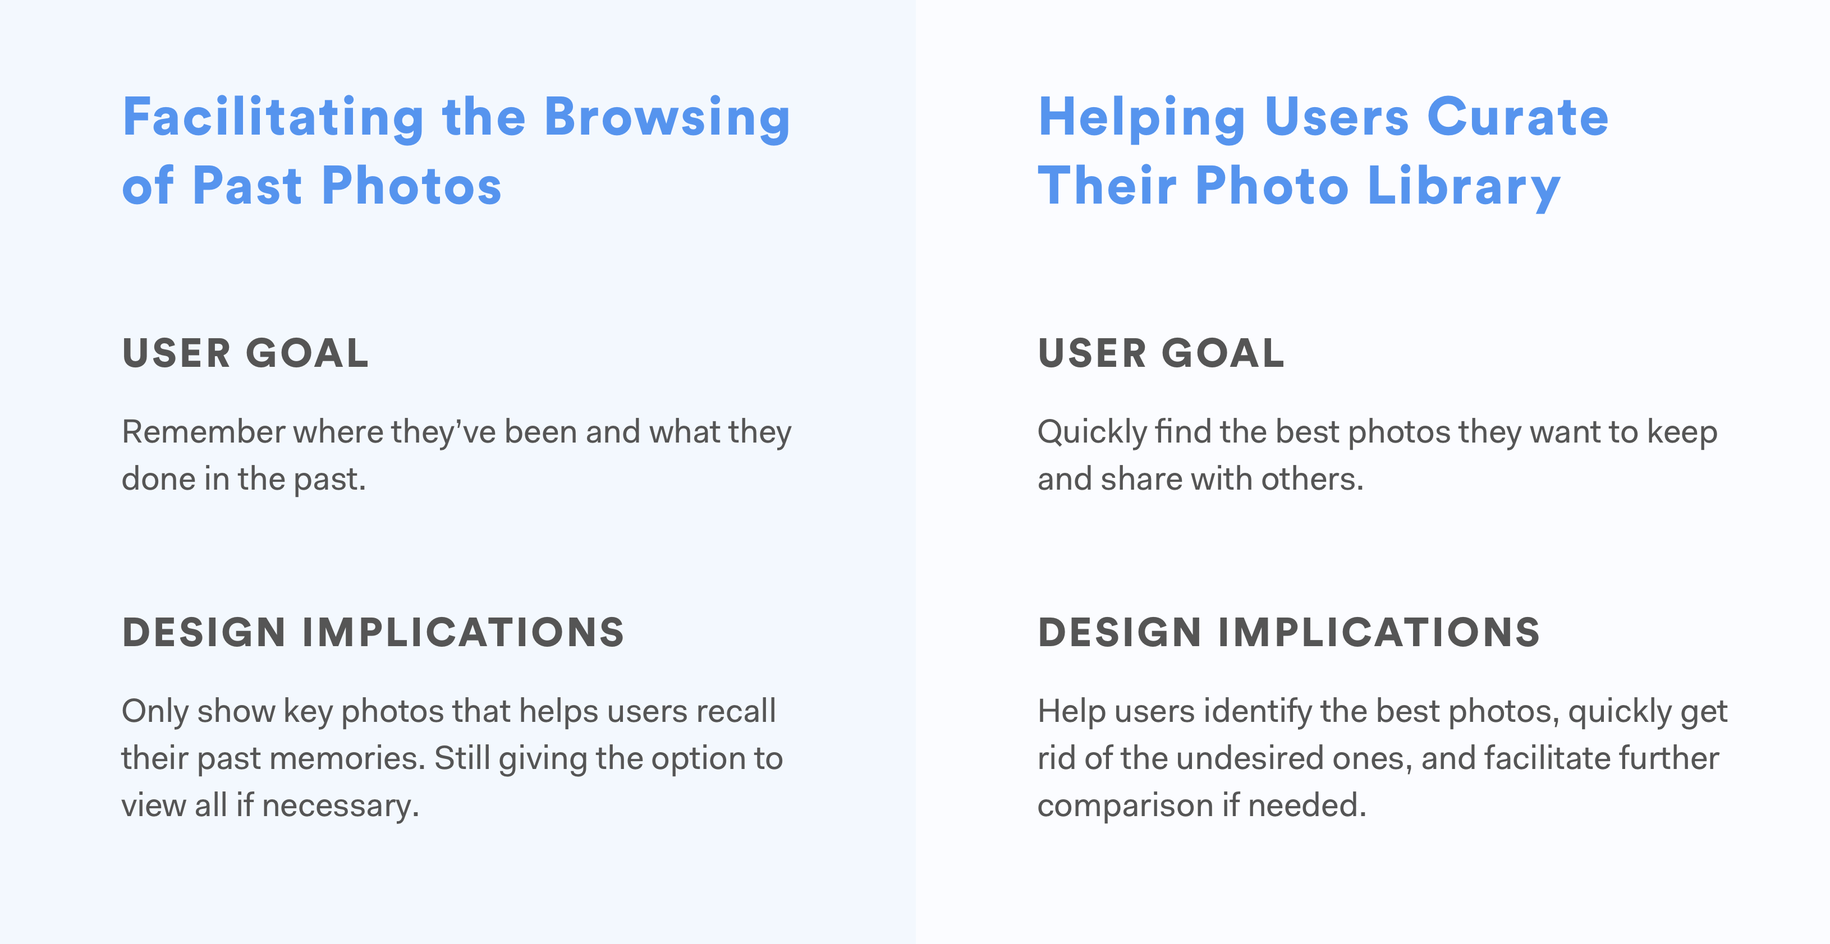
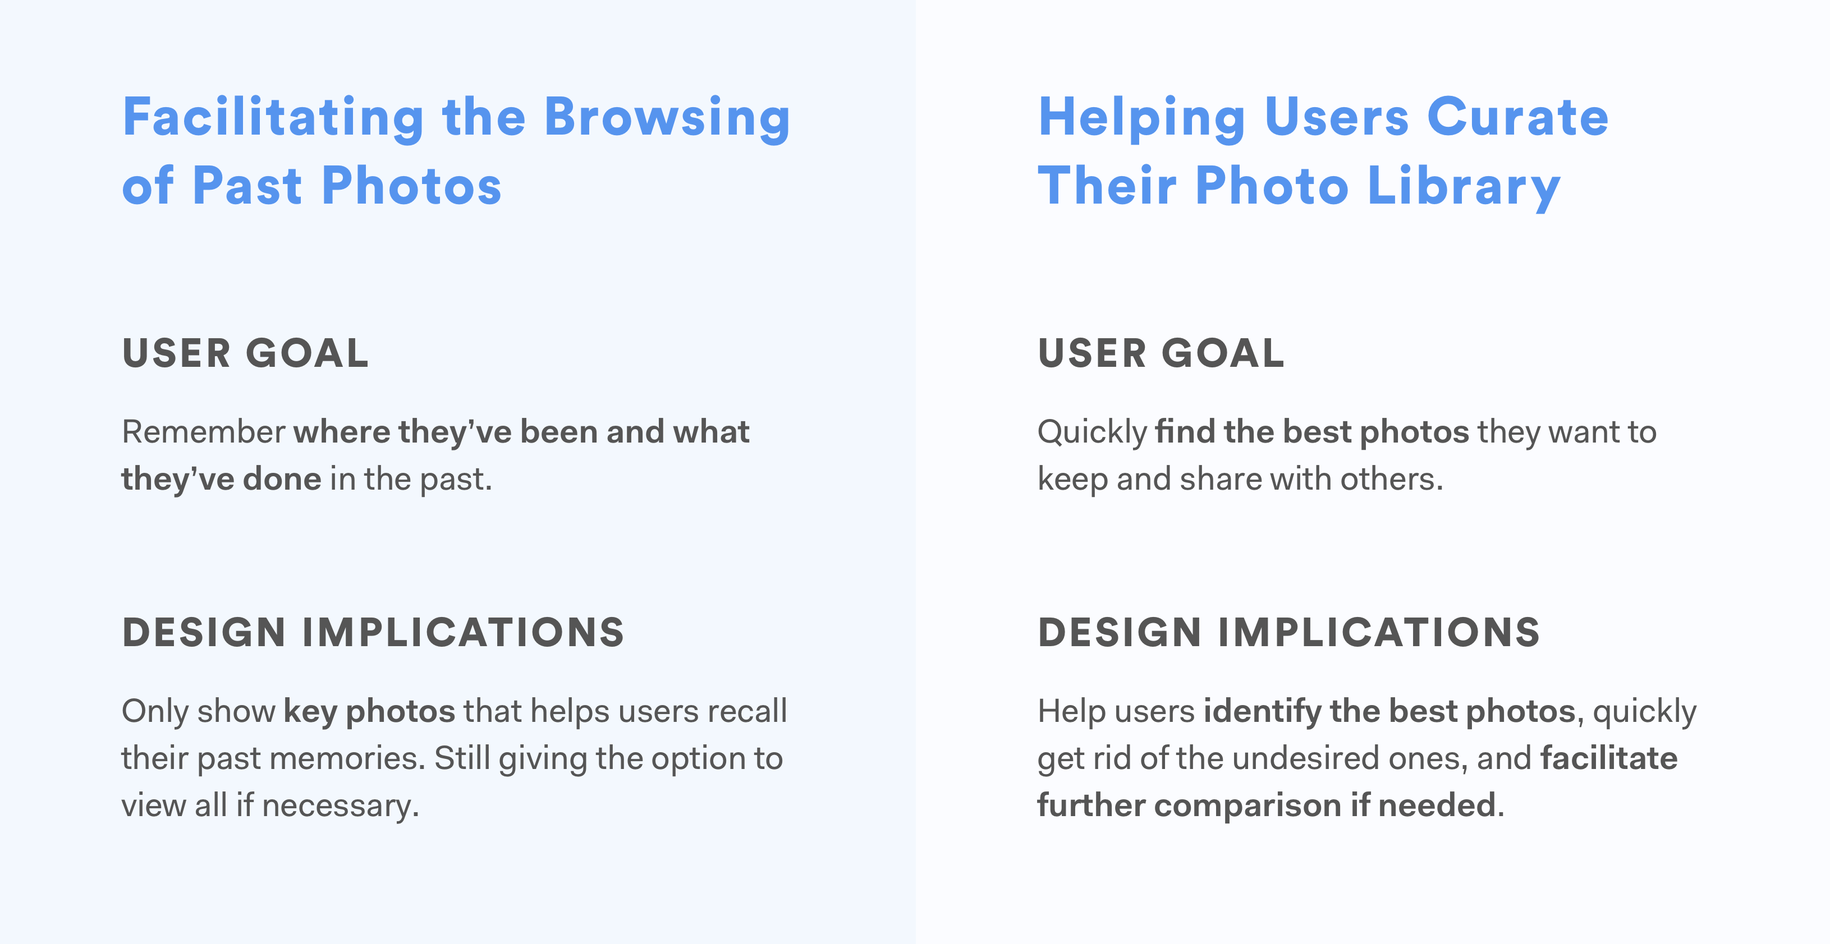
Changed typos and added photos for Google Photos

diff --git a/html/works/photos.html b/html/works/photos.html
@@ -298,7 +298,7 @@
 
                   <p><span class="highlight highlight-photos">Why is this?</span> <br><br>
 
-                    As I looked more into their answers, I realized that <span class="highlight highlight-photos">the reddit users who responded tend to be more experienced photographers!</span> Unlike those who are just casually taking snapshots of life, these semi-professional or professional photographers either take fewer, high-quality shots, or spend a long time manually refining their photographs using tools like Lightroom. <span class="highlight highlight-photos">In other words, they either don't have lots of similar photos in their library, or do have a lot, but consider it necessary to go over them one by one to make sure they select the best photos and post-process them.</span> <br><br>
+                    As I looked more into their answers, I realized that <span class="highlight highlight-photos"><strong>the reddit users who responded tend to be more experienced photographers!</strong></span> Unlike those who are just casually taking snapshots of life, these semi-professional or professional photographers either take fewer, high-quality shots, or spend a long time manually refining their photographs using tools like Lightroom. <span class="highlight highlight-photos">In other words, they either don't have lots of similar photos in their library, or do have a lot, but consider it necessary to go over them one by one to make sure they select the best photos and post-process them.</span> <br><br>
 
                     Therefore, it seems like more professional photographers fall out of my target audience. What about more casual photographers, who just use cameras to capture snapshots of life?
                   </p>
@@ -349,7 +349,7 @@
             <section class="group">
 
               <div class="subgroup">
-                <p>None of the existing products facilitates comparison between photos. Only Gemini helps users manage similar photos, but users will need to go into the app to manually clean up their photo library. Can we make the clean up process more care-free, and help users better compare similar photos they took?</p>
+                <p><span class="highlight highlight-photos"><strong>None of the existing products facilitates comparison between photos, which is actually the biggest problem I identified in my research.</strong></span> Only Gemini helps users manage similar photos, but users will need to go into the app to manually clean up their photo library. Can we make the clean up process more care-free, and help users better compare similar photos they took?</p>
               </div>
 
               <div id="design-goals" class="subgroup">
@@ -389,6 +389,8 @@
 
                 Google Photos enables users to search for particular photos using natural language (e.g. Paris Summer, Dogs, Sunset, etc.). It also automatically creates albums for photos taken around the same time and place, and recommends them to users. Should I focus on these functions instead to better help users browse through their memories?<br><br>
 
+                <img class="img-responsive full-img" src="../../assets/photos-where-redesign.png" alt="Where redesign"> <br><br>
+
                 <span class="highlight highlight-photos">I referred back to what I learned from the user interviews.</span> Most users I talked with spent most of their time browsing through photos in their "Photos" tab. Some do use "search", but only for searching specific photos. As for the automatically generated albums, users mentioned that those albums don't contain all the photos they took. <span class="highlight highlight-photos">Though the intention of those albums was to automatically include only the best photos for users, users still wanted to know that all the photos they took are there, and would prefer looking into the camera roll in the "Photos" tab.</span><br><br>
 
                 Therefore, I decided that the "Photos" tab was where the redesign should happen.</p>
@@ -415,7 +417,7 @@
 
                 I then started asking myself: <span class="highlight highlight-photos">do users really need to see all those similar photos in the photo roll at all?</span><br><br>
 
-                It seemed to be the convention to have all the photos displayed in the camera roll, at least in the expanded view; but as I referred back to the user needs and my design goal, I realized that this convention could be broken. <span class="highlight highlight-photos">The primary function of the camera roll is for users to quickly browse through and find/discover what they're looking for. There is no point of seeing several visually similar thumbnails there; users only care about how they differ when they can see the detailed image.</span><br><br>
+                It seemed to be the convention to have all the photos displayed in the camera roll, at least in the expanded view; but as I referred back to the user needs and my design goal, I realized that this convention could be broken. <span class="highlight highlight-photos"><strong>The primary function of the camera roll is for users to quickly browse through and find/discover what they're looking for. There is no point of seeing several visually similar thumbnails there; users only care about how they differ when they can see the detailed image.</strong></span><br><br>
 
                 Therefore, I developed the third alternative.
                  </p>
@@ -435,7 +437,7 @@
 
                  <img class="img-responsive full-img" src="../../assets/photos-important-moment-alternatives.png" alt="alternatives"> <br><br>
 
-                 <p><span class="highlight highlight-photos">I decided that using size to denote the number of photos in a group would be a better choice because size encodes more useful information in a way that people intuitively understands: the larger the size, the bigger the number.</span><br><br>
+                 <p><span class="highlight highlight-photos">I decided that using size to denote the number of photos in a group would be a better choice because <strong>size encodes more useful information in a way that people intuitively understands: the larger the size, the bigger the number.</strong></span><br><br>
 
                  However, this means that we'll need to slightly change the algorithm of how the photos will be displayed in the "Photos" tab. <span class="highlight highlight-photos">If I had access to developers, I would definitely consult with them about this change, and balance the value the change brings with the amount of effort we need to put into that change.</span><br><br>
 
@@ -460,16 +462,16 @@
 
                 <p>After redesigning the grid layout in the "Photos" tab, what would users see after they click into a user group then? <span class="highlight highlight-photos">Bringing in the concept of "photo groups" means that I need to think more about 1) how users would navigate between photos in those groups, and 2) how the existing interactions with those photos might be affected.</span><br><br>
 
-                For the first question, I referred back to user needs and put myself in the shoes of a user. <span class="highlight highlight-photos">Because of my limited time, I made an educated assumption that most of the times, users would only want to see the best photos as they swipe through their photo library.</span> Only for photos that they're really interested in will they want to see all the other similar ones they've taken.<br><br>
+                For the first question, I referred back to user needs and put myself in the shoes of a user. <span class="highlight highlight-photos">Because of my limited time, I made an educated assumption that most of the times, users would only need to see one photo within each photo group as they swipe through their photo library.</span> Only for photos that they're really interested in will they want to see all the other similar ones they've taken.<br><br>
 
                 With this assumption in mind, I started thinking about alternatives for the interaction.
                 </p>
 
                 <img class="img-responsive full-img" src="../../assets/photos-wireframes-swipe-alternatives.png" alt="swipe alternatives"> <br><br>
 
-                <p>At first glance, alternative 2 seems to be the worst choice for comparison between similar photos, because it's extremely hard for users to keep in mind the photos they want to compare when the positions of thumbnails are constantly changing. <span class="highlight highlight-photos">However, since I later decided to create a separate mode for comparison, the sole purpose for users to navigate between photos in this page becomes to quickly browse through them. For this purpose, alternative 2 together with alternative 1 becomes the best choice.</span> If I had time, I would bring it to users or other designers to get their input and validate this design decision.<br><br>
+                <p>At first glance, alternative 2 seems to be the worst choice for comparison between similar photos, because it's extremely hard for users to keep in mind the photos they want to compare when the positions of thumbnails are constantly changing. <span class="highlight highlight-photos">However, since I later decided to create <strong>a separate mode for comparison</strong>, the sole purpose for users to navigate between photos in this page becomes to quickly browse through them. For this purpose, <strong>alternative 2 together with alternative 1 becomes the best choice.</strong></span> If I had time, I would bring it to users or other designers to get their input and validate this design decision.<br><br>
 
-                As for how the redesign is going to change the current users' current interactions with photos, <span class="highlight highlight-photos">I explored all the ways users are able to interact with a photo currently, and thought about whether those interactions are more logical to be applied to a group of similar photos, or a single photo.</span>
+                As for how the redesign is going to change the users' current interactions with photos, <span class="highlight highlight-photos">I explored all the ways users are able to interact with a photo right now, and thought about whether those interactions are more logical to be applied to a group of similar photos, or a single photo.</span>
                  </p>
 
                 <img class="img-responsive full-img" src="../../assets/photos-detail-existing-features.png" alt="existing features"> <br><br><br><br><br>
@@ -483,10 +485,13 @@
                 <p>Another major task users usually need to carry out when they take lots of similar photos is to compare between different shots, delete the bad ones, or select the best ones to view, edit, or share. But this curation process is painful and time-consuming because <span class="highlight highlight-photos">1) users have to manually go through every photo to pick the good and delete the bad, and 2) it is extremely hard to compare between similar photos and spot the differences. How can I make the curation process easier?</span></p>
 
                 <h5 class="photos-h5">Using Machine Learning to Recommend the Best Photos</h5>
-                <p><span class="highlight highlight-photos">One way to relieve users from the burden of selecting the best photos is to suggest the best ones for quick actions.</span> Using Machine Learning, it is possible to identify photos with the best lightings, compositions, and even those in which everyone's smiling. Google Clip has been using similar algorithms to suggest best moments in a video. It would be possible to further apply similar technologies in Google Photos to automatically suggest the best photo within a photo group, and enable users to quickly share it or delete the others.</p>
+                <p><span class="highlight highlight-photos">One way to relieve users from the burden of selecting the best photos is to suggest the best ones for quick actions.</span> Using Machine Learning, it is possible to identify photos with the best lightings, compositions, and even those in which everyone's smiling. Google Clip has been using similar algorithms to suggest best moments in a video. It would be possible to further apply similar technologies in Google Photos to automatically suggest the best photo within a photo group, and enable users to quickly share it or delete the others.<br><br>
+
+                However, the notion of "a best photo" is highly subjective. <span class="highlight highlight-photos">As a designer, I also want to <strong>give my users control</strong> even when my design leverages the most advanced algorithms to simplify the process.<span> That's why I decided to provide another function to help them compare between similar photos more quickly.
+                 </p>
 
                 <h5 class="photos-h5">Facilitating Comparison</h5>
-                <p>Almost all users I interviewed complained that it is hard to scroll through similar photos and compare between them. Here's how they currently compare between similar images:</p>
+                <p>Almost all users I interviewed complained that <span class="highlight highlight-photos">it is so hard to scroll through similar photos and compare between them.</span> Here's how they do the comparison now:</p>
 
                 <p class="p-center-wrapper"><video autoplay muted loop class="video-features" style="max-width:200px">
                   <source src="../../assets/photos-compare-current.mp4"/>
@@ -499,7 +504,9 @@
 
                 <img class="img-responsive full-img" src="../../assets/photos-change-blindness.png" alt="change blindness"> <br><br><br>
 
-                <p><span class="highlight highlight-photos">If side-by-side comparison is already difficult, then think about how hard it is to scroll and see slightly different images one by one, and try to compare the current one with another one you saw 10 seconds ago.</span><br><br>
+                <p><strong>It's hard, right?</strong> <br><br>
+
+                <span class="highlight highlight-photos">If side-by-side comparison is already difficult, then think about how hard it is to scroll and see slightly different images one by one, and try to compare the current one with another one you saw 10 seconds ago.</span><br><br>
 
                 The quickest and the most effortless way to compare the differences between 2 images is to <span class="highlight highlight-photos">show them sequentially, with no interruptions in between,</span> similar to how users can compare between edited images and original images in Google Photos, Apple Photos, and Instagram.</p>
 
@@ -511,7 +518,7 @@
                 </p>
 
                 <h5 class="photos-h5">Design Alternatives</h5>
-                <p><span class="highlight highlight-photos">Since it is hard to use paper or even clickable prototypes to illustrate how users can compare different photos, and whether the comparison method works, I quickly created the following alternatives in Principle and used real photos to illustrate the use cases.</span> I walked through the usage scenario myself and show the prototypes to others for feedback as well.</p>
+                <p><span class="highlight highlight-photos">Since it is hard to use paper or even clickable prototypes to illustrate how users can compare different photos, and whether the comparison method works, I quickly created the following alternatives in Principle and used real photos to illustrate the use cases.</span> I walked through the usage scenario myself and showed the prototypes to others for feedback as well.</p>
 
 
                 <div class="row feature-row">
@@ -617,13 +624,13 @@
 
                       Some of the shortcomings of alternatives 1 and 2 can be resolved by merging the two. We can use most of the interactions in alternative 2 and make the following change: instead of letting users double tap or scroll to pin a photo, we can let them drag a thumbnail up to pin it on the screen.<br><br>
 
-                      <span class="highlight highlight-photos">Eventually, I still decided to further develop the 3rd alternative, because it doesn't require users to change their habits much.</span> Considering the large user base of the app, it might be hard to let all the users of Google Photos quickly learn the interactions in alternative 2, though once learned, it might be more efficient. <span class="highlight highlight-photos">However, if I had more time, I'd definitely gather more user feedback, or conduct A/B test to decide on the final interaction.</span>
+                      <span class="highlight highlight-photos">Eventually, <strong>I still decided to further develop the 3rd alternative</strong>, because it doesn't require users to change their habits much.</span> Considering the large user base of the app, it might be hard to let all the users of Google Photos quickly learn the interactions in alternative 2, though once learned, it might be more efficient. <span class="highlight highlight-photos">However, if I had more time, I'd definitely gather more user feedback, or conduct A/B test to decide on the final interaction.</span>
 
                     </p>
 
 
                     <h5 class="photos-h5">Separate Mode or Not?</h5>
-                    <p class="small-margin-bottom">I had the option of directly adding the comparison feature to the photo details page, or creating a separate "Compare Mode" to better help users compare photos. I decided to create a separate mode for it for the following reasons:</p><br>
+                    <p class="small-margin-bottom">I had the option of directly adding the comparison feature to the photo details page, or creating a separate "Compare Mode" to better help users compare photos. <strong>I decided to create a separate mode for it</strong> for the following reasons:</p><br>
                     <img class="img-responsive full-img" src="../../assets/photos-separate-mode.png" alt="separate modes"> <br><br><br><br><br>
 
               </div>
@@ -728,11 +735,11 @@
 
               <div id="edge-cases" class="subgroup">
                 <h4>Technical Details for Grouping</h4>
-                <p>One of the key functions that determine the success of the design solution is grouping similar photos. But how to define "similar" photos? What's the boundary between one photo group and another, they're all taken around the same time, with similar peoples, at the same place? There are lots of different use cases for why people would take photos and upload them to Google Photos, which means that we'll need to consider all of them if we're going to change the existing product.<br><br>
+                <p>One of the key functions that determine the success of the design solution is grouping similar photos. But how to define "similar" photos? What's the boundary between one photo group and another, if they're all taken around the same time, with similar peoples, at the same place? There are lots of different use cases for why people would take photos and upload them to Google Photos, which means that we'll need to consider all of them if we're going to change the existing product.<br><br>
 
                 <span class="highlight highlight-photos">If this were a real project, I would definitely start working with engineers from the inception of the grouping idea to make sure that we train the Machine Learning algorithm the right way and consider different edge cases.</span> <br><br>
 
-                In addition, photo groups contain different numbers of photos, and are displayed using different sizes on the camera roll. How do we divide the numbers and map them to different sizes? Should a 16-photo group take up a 2x2 grid or 4x4 grid? Will this differ according to users' habit for taking photos? This is also something I need to <span class="highlight highlight-photos">discuss with engineers and see the real user data</span> to make a final decision.<br><br>
+                In addition, photo groups contain different numbers of photos, and are displayed using different sizes on the camera roll. How do we segment the numbers and map them to different sizes? Should a 16-photo group take up a 2x2 grid or 4x4 grid? Will this differ according to users' habit for taking photos? This is also something I need to <span class="highlight highlight-photos">discuss with engineers and see the real user data</span> to make a final decision.<br><br>
 
                 </p>
               </div>
@@ -759,9 +766,9 @@
                 <p>Google Photos already groups Burst Photos into one group and allows users to set a key photo and delete the rest. However, the functionalities are limited to Burst, so the use cases are different. <span class="highlight highlight-photos">Right now, I'm using a different icon to signify Photo Groups; however, since grouping similar photos and grouping burst photos are similar concepts, I might think further about whether it makes sense to distinguish them, and if not, how to merge these two functionalities into one that fits both use cases.</span></p>
 
                 <h5 class="photos-h5">Top Shot in Pixel 3</h5>
-                <p>Google's Pixel 3 has the Top Shot function, which automatically takes several photos for users on one click, and recommends one to users afterwards. This function, if it becomes more common in other smartphones, might solve people's problem of having too many similar photos from another perspective--if the phone automatically takes a number of photos and selects the best, then the user won't need to take a lot of photos of the same thing in the first place as a fail safe.<br><br>
+                <p>Google's Pixel 3 has the Top Shot function, which automatically takes several photos for users on one click, and recommends one to users afterwards. This function is approaching people's problem of having too many similar photos from another angle--if the phone automatically takes a number of photos and selects the best, then the user won't need to take a lot of photos of the same thing in the first place as a fail safe.<br><br>
 
-                <span class="highlight highlight-photos">However, I believe that the grouping function is still necessary because 1) Top Shot is only available on Pixel 3, not on other smartphones or cameras. It might take a long time for people to stop taking multiple similar photos once functions like Top Shot becomes commonplace. 2) Even then, people would still like to experiment with slightly different angles and lightings when taking photographs. That's a use case in which we still need to help them group similar photos afterwards.</span><br><br>
+                <span class="highlight highlight-photos">However, I believe that the grouping function is still necessary because 1) Top Shot is only available on Pixel 3, not on other smartphones or cameras. It might take a long time for people to stop taking multiple similar photos even after functions like Top Shot becomes commonplace. 2) Even then, people would still like to experiment with slightly different angles and lightings when taking photographs. That's a use case in which we still need to help them group similar photos afterwards.</span><br><br>
 
                 There are several similarities between Top Shot and Photo Groups, and both are related to Google Photos. As a future step, I'll need to think about how to make their interfaces/interactions consistent.
                 </p>
